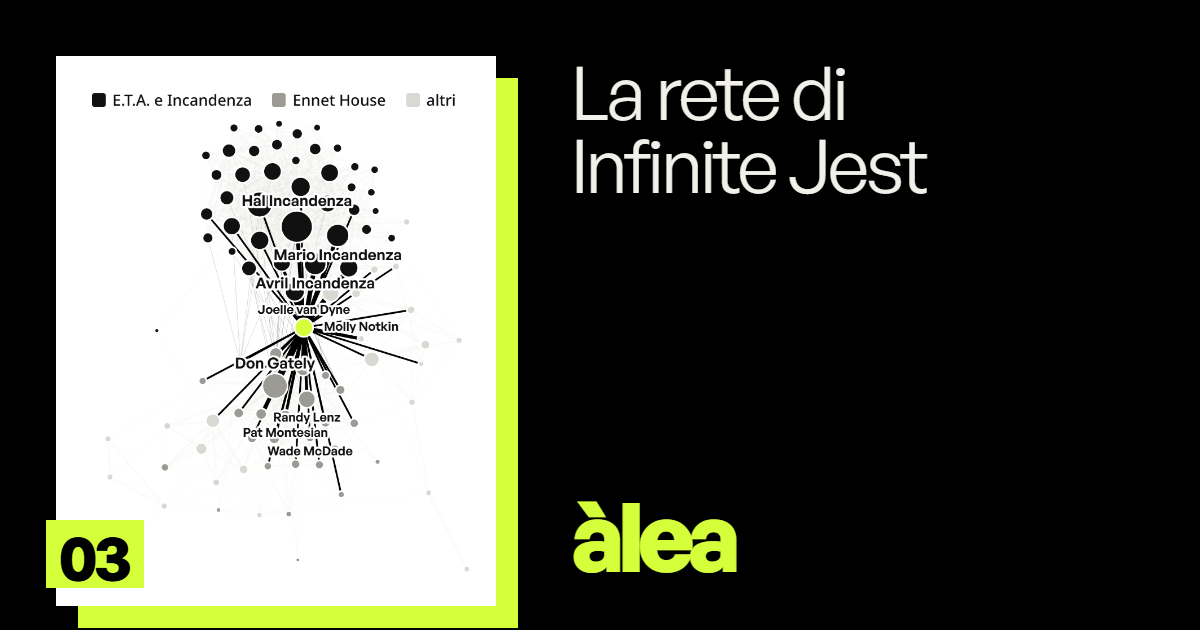
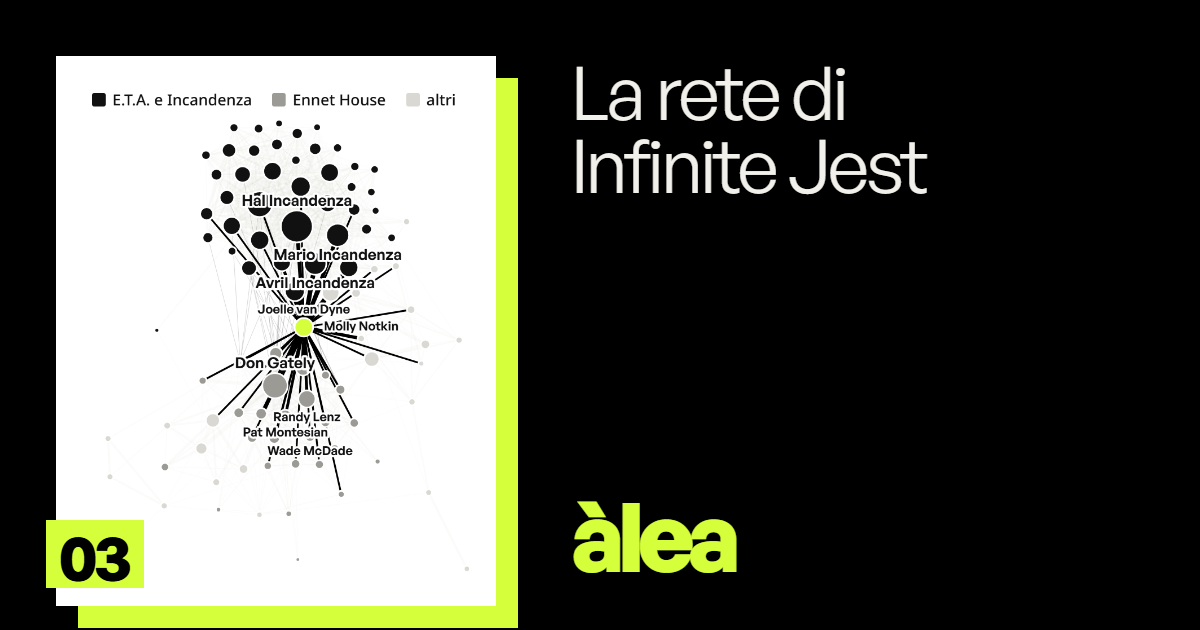
moneta su /simulazione-casualita/, copertine come immagini semplici, anteprime social da un solo modello, deploy che rigenera tutto; nuovi titolo, descrizione, about e sommari

diff --git a/public/simulazione-casualita/index.html b/public/simulazione-casualita/index.html
@@ -219,22 +219,22 @@
          opacity: 0; transition: opacity .1s; }
 </style>
 
-<meta name="description" content="Inventa cento lanci di moneta: un programma che non sa niente di te proverà a prevederli. Poi li confrontiamo con una moneta vera.">
-<link rel="canonical" href="https://alea.news/prova-a-fare-il-caso/">
+<meta name="description" content="Generare numeri casuali non è qualcosa di semplice e spesso un essere umano fallisce nel tentativo di provarci">
+<link rel="canonical" href="https://alea.news/simulazione-casualita/">
 <meta property="og:type" content="article">
 <meta property="og:site_name" content="àlea">
 <meta property="og:title" content="Non siamo bravi a simulare la casualità">
-<meta property="og:description" content="Inventa cento lanci di moneta: un programma che non sa niente di te proverà a prevederli. Poi li confrontiamo con una moneta vera.">
-<meta property="og:url" content="https://alea.news/prova-a-fare-il-caso/">
-<meta property="og:image" content="https://alea.news/og/prova-a-fare-il-caso.png">
+<meta property="og:description" content="Generare numeri casuali non è qualcosa di semplice e spesso un essere umano fallisce nel tentativo di provarci">
+<meta property="og:url" content="https://alea.news/simulazione-casualita/">
+<meta property="og:image" content="https://alea.news/og/simulazione-casualita.png">
 <meta property="og:image:width" content="1200">
 <meta property="og:image:height" content="630">
 <meta property="og:locale" content="it_IT">
 <meta property="article:published_time" content="2026-10-10">
 <meta name="twitter:card" content="summary_large_image">
 <meta name="twitter:title" content="Non siamo bravi a simulare la casualità">
-<meta name="twitter:description" content="Inventa cento lanci di moneta: un programma che non sa niente di te proverà a prevederli. Poi li confrontiamo con una moneta vera.">
-<meta name="twitter:image" content="https://alea.news/og/prova-a-fare-il-caso.png">
+<meta name="twitter:description" content="Generare numeri casuali non è qualcosa di semplice e spesso un essere umano fallisce nel tentativo di provarci">
+<meta name="twitter:image" content="https://alea.news/og/simulazione-casualita.png">
 <link rel="icon" href="/favicon.svg" type="image/svg+xml">
 <link rel="apple-touch-icon" href="/apple-touch-icon.png">
 <title>Non siamo bravi a simulare la casualità · àlea</title>
@@ -1051,7 +1051,7 @@ disegnaInput();   // primo disegno della griglia vuota
 <section class="alea-fondo" data-nosnippet>
   <div class="alea-fondo-in">
     <a class="alea-invito" href="/">Questo è un progetto di <b>àlea</b>, dai un'occhiata anche agli altri →</a>
-    <div class="alea-altri"><a href="/litigi-tra-alleati/"><span class="t">I litigi tra gli alleati di governo</span><span class="s">Governano insieme e votano insieme la fiducia, ma in aula si contestano: 1.047 volte, alla Camera, dal 1948 al 2022.</span></a></div>
+    <div class="alea-altri"><a href="/la-rete-di-infinite-jest/"><span class="t">La rete di Infinite Jest</span><span class="s">Il romanzo di David Foster Wallace, visto attraverso una network analysis, ci mostra due mondi separati, se non per un personaggio</span></a><a href="/litigi-tra-alleati/"><span class="t">I litigi tra gli alleati di governo</span><span class="s">Governano insieme e votano insieme la fiducia, ma in aula si contestano: 1.047 volte alla Camera, dal 1948 al 2022</span></a></div>
     <div class="alea-barra">newsletter ↓</div>
     <div class="alea-nl">
       <div>
@@ -1064,7 +1064,7 @@ disegnaInput();   // primo disegno della griglia vuota
       </form>
     </div>
     <footer class="alea-piede">
-      <div><h4>about</h4><p>àlea è un progetto di data e visual journalism ideato da <a href="https://www.davidruffini.com" target="_blank" rel="noopener">David Ruffini</a> per raccontare storie su probabilità, società, cultura e molto altro.</p></div>
+      <div><h4>about</h4><p>àlea è un progetto di data e visual journalism ideato da <a href="https://www.davidruffini.com" target="_blank" rel="noopener">David Ruffini</a> per parlare di incertezza attraverso i dati e per raccontare storie su statistica, società, cultura e molto altro.</p></div>
       <div class="alea-col"><h4>contatti</h4><a href="mailto:ciao@alea.news">ciao@alea.news</a></div>
       <div class="alea-col"><h4>social</h4><a href="https://www.instagram.com/alea.rivista/" target="_blank" rel="noopener">instagram ↗</a><a href="https://www.linkedin.com/company/%C3%A0lea/" target="_blank" rel="noopener">linkedin ↗</a></div>
     </footer>

diff --git a/public/la-rete-di-infinite-jest/index.html b/public/la-rete-di-infinite-jest/index.html
@@ -141,12 +141,12 @@
   body.ig .barre .riga { height: 38px; font-size: .95rem; }
 </style>
 
-<meta name="description" content="Il monumentale romanzo di David Foster Wallace visto come un sistema complesso">
+<meta name="description" content="Il romanzo di David Foster Wallace, visto attraverso una network analysis, ci mostra due mondi separati, se non per un personaggio">
 <link rel="canonical" href="https://alea.news/la-rete-di-infinite-jest/">
 <meta property="og:type" content="article">
 <meta property="og:site_name" content="àlea">
 <meta property="og:title" content="La rete di Infinite Jest">
-<meta property="og:description" content="Il monumentale romanzo di David Foster Wallace visto come un sistema complesso">
+<meta property="og:description" content="Il romanzo di David Foster Wallace, visto attraverso una network analysis, ci mostra due mondi separati, se non per un personaggio">
 <meta property="og:url" content="https://alea.news/la-rete-di-infinite-jest/">
 <meta property="og:image" content="https://alea.news/og/la-rete-di-infinite-jest.png">
 <meta property="og:image:width" content="1200">
@@ -155,7 +155,7 @@
 <meta property="article:published_time" content="2026-10-22">
 <meta name="twitter:card" content="summary_large_image">
 <meta name="twitter:title" content="La rete di Infinite Jest">
-<meta name="twitter:description" content="Il monumentale romanzo di David Foster Wallace visto come un sistema complesso">
+<meta name="twitter:description" content="Il romanzo di David Foster Wallace, visto attraverso una network analysis, ci mostra due mondi separati, se non per un personaggio">
 <meta name="twitter:image" content="https://alea.news/og/la-rete-di-infinite-jest.png">
 <link rel="icon" href="/favicon.svg" type="image/svg+xml">
 <link rel="apple-touch-icon" href="/apple-touch-icon.png">
@@ -641,7 +641,7 @@ document.getElementById("cerca").addEventListener("submit", (e) => {
 <section class="alea-fondo" data-nosnippet>
   <div class="alea-fondo-in">
     <a class="alea-invito" href="/">Questo è un progetto di <b>àlea</b>, dai un'occhiata anche agli altri →</a>
-    <div class="alea-altri"><a href="/prova-a-fare-il-caso/"><span class="t">Non siamo bravi a simulare la casualità</span><span class="s">Inventa cento lanci di moneta: un programma che non sa niente di te proverà a prevederli. Poi li confrontiamo con una moneta vera.</span></a><a href="/litigi-tra-alleati/"><span class="t">I litigi tra gli alleati di governo</span><span class="s">Governano insieme e votano insieme la fiducia, ma in aula si contestano: 1.047 volte, alla Camera, dal 1948 al 2022.</span></a></div>
+    <div class="alea-altri"><a href="/simulazione-casualita/"><span class="t">Non siamo bravi a simulare la casualità</span><span class="s">Generare numeri casuali non è qualcosa di semplice e spesso un essere umano fallisce nel tentativo di provarci</span></a><a href="/litigi-tra-alleati/"><span class="t">I litigi tra gli alleati di governo</span><span class="s">Governano insieme e votano insieme la fiducia, ma in aula si contestano: 1.047 volte alla Camera, dal 1948 al 2022</span></a></div>
     <div class="alea-barra">newsletter ↓</div>
     <div class="alea-nl">
       <div>
@@ -654,7 +654,7 @@ document.getElementById("cerca").addEventListener("submit", (e) => {
       </form>
     </div>
     <footer class="alea-piede">
-      <div><h4>about</h4><p>àlea è un progetto di data e visual journalism ideato da <a href="https://www.davidruffini.com" target="_blank" rel="noopener">David Ruffini</a> per raccontare storie su probabilità, società, cultura e molto altro.</p></div>
+      <div><h4>about</h4><p>àlea è un progetto di data e visual journalism ideato da <a href="https://www.davidruffini.com" target="_blank" rel="noopener">David Ruffini</a> per parlare di incertezza attraverso i dati e per raccontare storie su statistica, società, cultura e molto altro.</p></div>
       <div class="alea-col"><h4>contatti</h4><a href="mailto:ciao@alea.news">ciao@alea.news</a></div>
       <div class="alea-col"><h4>social</h4><a href="https://www.instagram.com/alea.rivista/" target="_blank" rel="noopener">instagram ↗</a><a href="https://www.linkedin.com/company/%C3%A0lea/" target="_blank" rel="noopener">linkedin ↗</a></div>
     </footer>

diff --git a/public/litigi-tra-alleati/index.html b/public/litigi-tra-alleati/index.html
@@ -192,12 +192,12 @@
   .tip .k { color: var(--ink-2); }
 </style>
 
-<meta name="description" content="Governano insieme e votano insieme la fiducia, ma in aula si contestano: 1.047 volte, alla Camera, dal 1948 al 2022.">
+<meta name="description" content="Governano insieme e votano insieme la fiducia, ma in aula si contestano: 1.047 volte alla Camera, dal 1948 al 2022">
 <link rel="canonical" href="https://alea.news/litigi-tra-alleati/">
 <meta property="og:type" content="article">
 <meta property="og:site_name" content="àlea">
 <meta property="og:title" content="I litigi tra gli alleati di governo">
-<meta property="og:description" content="Governano insieme e votano insieme la fiducia, ma in aula si contestano: 1.047 volte, alla Camera, dal 1948 al 2022.">
+<meta property="og:description" content="Governano insieme e votano insieme la fiducia, ma in aula si contestano: 1.047 volte alla Camera, dal 1948 al 2022">
 <meta property="og:url" content="https://alea.news/litigi-tra-alleati/">
 <meta property="og:image" content="https://alea.news/og/litigi-tra-alleati.png">
 <meta property="og:image:width" content="1200">
@@ -206,7 +206,7 @@
 <meta property="article:published_time" content="2026-10-06">
 <meta name="twitter:card" content="summary_large_image">
 <meta name="twitter:title" content="I litigi tra gli alleati di governo">
-<meta name="twitter:description" content="Governano insieme e votano insieme la fiducia, ma in aula si contestano: 1.047 volte, alla Camera, dal 1948 al 2022.">
+<meta name="twitter:description" content="Governano insieme e votano insieme la fiducia, ma in aula si contestano: 1.047 volte alla Camera, dal 1948 al 2022">
 <meta name="twitter:image" content="https://alea.news/og/litigi-tra-alleati.png">
 <link rel="icon" href="/favicon.svg" type="image/svg+xml">
 <link rel="apple-touch-icon" href="/apple-touch-icon.png">
@@ -862,7 +862,7 @@ else attiva(document.querySelector(".passo, .scena"));
 <section class="alea-fondo" data-nosnippet>
   <div class="alea-fondo-in">
     <a class="alea-invito" href="/">Questo è un progetto di <b>àlea</b>, dai un'occhiata anche agli altri →</a>
-    <div class="alea-altri"><a href="/prova-a-fare-il-caso/"><span class="t">Non siamo bravi a simulare la casualità</span><span class="s">Inventa cento lanci di moneta: un programma che non sa niente di te proverà a prevederli. Poi li confrontiamo con una moneta vera.</span></a></div>
+    <div class="alea-altri"><a href="/la-rete-di-infinite-jest/"><span class="t">La rete di Infinite Jest</span><span class="s">Il romanzo di David Foster Wallace, visto attraverso una network analysis, ci mostra due mondi separati, se non per un personaggio</span></a><a href="/simulazione-casualita/"><span class="t">Non siamo bravi a simulare la casualità</span><span class="s">Generare numeri casuali non è qualcosa di semplice e spesso un essere umano fallisce nel tentativo di provarci</span></a></div>
     <div class="alea-barra">newsletter ↓</div>
     <div class="alea-nl">
       <div>
@@ -875,7 +875,7 @@ else attiva(document.querySelector(".passo, .scena"));
       </form>
     </div>
     <footer class="alea-piede">
-      <div><h4>about</h4><p>àlea è un progetto di data e visual journalism ideato da <a href="https://www.davidruffini.com" target="_blank" rel="noopener">David Ruffini</a> per raccontare storie su probabilità, società, cultura e molto altro.</p></div>
+      <div><h4>about</h4><p>àlea è un progetto di data e visual journalism ideato da <a href="https://www.davidruffini.com" target="_blank" rel="noopener">David Ruffini</a> per parlare di incertezza attraverso i dati e per raccontare storie su statistica, società, cultura e molto altro.</p></div>
       <div class="alea-col"><h4>contatti</h4><a href="mailto:ciao@alea.news">ciao@alea.news</a></div>
       <div class="alea-col"><h4>social</h4><a href="https://www.instagram.com/alea.rivista/" target="_blank" rel="noopener">instagram ↗</a><a href="https://www.linkedin.com/company/%C3%A0lea/" target="_blank" rel="noopener">linkedin ↗</a></div>
     </footer>

diff --git a/src/data/articoli.js b/src/data/articoli.js
@@ -1,6 +1,7 @@
-// Elenco degli articoli, dal più recente. Le pagine degli articoli si importano in public/ con npm run articoli.
-// copertina: nome dell'immagine in public/img/copertine/<nome>.png, un ritaglio 4:5 dell'articolo visto da telefono
-//   (npm run copertine, vedi scripts/copertine.mjs); per le bozze basta { colore, testo }.
+// Elenco degli articoli, dal più recente. Con npm run deploy tutto quello che c'è qui (titolo, sommario, url, copertina)
+// si aggiorna ovunque: home, pagine degli articoli, meta tag e anteprime per i social.
+// copertina: nome del file in public/img/copertine/ (png, jpg o webp), mostrato così com'è in un riquadro 4:5
+//   (se ha altre proporzioni si vede il centro); per le bozze basta { colore, testo }.
 // colore: il blocco di colore pieno dietro la copertina ("ombra piena").
 // bozza: true -> compare solo con npm run dev, mai nel sito pubblicato
 export const ARTICOLI = [
@@ -9,19 +10,19 @@ export const ARTICOLI = [
     data: "2026-10-22",
     tema: "cultura",
     titolo: "La rete di Infinite Jest",
-    sommario: "Il monumentale romanzo di David Foster Wallace visto come un sistema complesso",
+    sommario: "Il romanzo di David Foster Wallace, visto attraverso una network analysis, ci mostra due mondi separati, se non per un personaggio",
     url: "/la-rete-di-infinite-jest/",
-    copertina: "infinite-jest",
+    copertina: "infinite-jest.png",
     colore: "#d4ff3a",
   },
   {
     numero: 2,
     data: "2026-10-10",
-    tema: "statistica",
+    tema: "probabilità",
     titolo: "Non siamo bravi a simulare la casualità",
-    sommario: "Inventa cento lanci di moneta: un programma che non sa niente di te proverà a prevederli. Poi li confrontiamo con una moneta vera.",
-    url: "/prova-a-fare-il-caso/",
-    copertina: "moneta",
+    sommario: "Generare numeri casuali non è qualcosa di semplice e spesso un essere umano fallisce nel tentativo di provarci",
+    url: "/simulazione-casualita/",
+    copertina: "moneta.png",
     colore: "#d4ff3a",
   },
   {
@@ -29,9 +30,9 @@ export const ARTICOLI = [
     data: "2026-10-06",
     tema: "politica",
     titolo: "I litigi tra gli alleati di governo",
-    sommario: "Governano insieme e votano insieme la fiducia, ma in aula si contestano: 1.047 volte, alla Camera, dal 1948 al 2022.",
+    sommario: "Governano insieme e votano insieme la fiducia, ma in aula si contestano: 1.047 volte alla Camera, dal 1948 al 2022",
     url: "/litigi-tra-alleati/",
-    copertina: "litigi",
+    copertina: "litigi2.png",
     colore: "#d4ff3a",
   },
   // segnaposto per vedere la griglia mentre si lavora

diff --git a/scripts/og/articolo.html b/scripts/og/articolo.html
@@ -1,6 +1,6 @@
 <!doctype html>
-<!-- Immagine di anteprima per i social (1200x630): la figurina della home (public/img/copertine/moneta.png con l'ombra piena)
-     a sinistra, il titolo e àlea a destra. Si rigenera con npm run copertine e poi npm run og -->
+<!-- Modello dell'immagine di anteprima di un articolo per i social (1200x630): la figurina della home (copertina con l'ombra piena)
+     a sinistra, il titolo e àlea a destra. Copertina, numero e titolo li mette scripts/og.mjs, da src/data/articoli.js. -->
 <html lang="it">
 <head>
 <meta charset="utf-8">
@@ -8,15 +8,15 @@
 <style>
   html, body { margin: 0; width: 1200px; height: 630px; overflow: hidden; background: #000; font-family: "General Sans", sans-serif; color: #f2f0ea; }
   .cop { position: absolute; left: 56px; top: 56px; width: 440px; height: 550px; box-sizing: border-box;
-         box-shadow: 22px 22px 0 #d4ff3a; background: #fff url(../../public/img/copertine/moneta.png) top / cover; }
+         box-shadow: 22px 22px 0 {{colore}}; background: #fff url({{copertina}}) center / cover; }
   .num { position: absolute; left: 46px; top: 520px; background: #d4ff3a; color: #000; font-weight: 700; font-size: 64px; letter-spacing: -0.06em; line-height: 1; padding: 4px 16px 0 12px; }
   .destra { position: absolute; left: 571px; right: 56px; top: 56px; bottom: 56px; display: flex; flex-direction: column; justify-content: space-between; }
-  .tit { font-size: 74px; line-height: .98; letter-spacing: -0.04em; }
+  .tit { font-size: 74px; line-height: .98; letter-spacing: -0.04em; text-wrap: balance; }
   .logo { font-weight: 700; font-size: 96px; letter-spacing: -0.075em; color: #d4ff3a; line-height: .8; }
 </style>
 </head>
 <body>
-  <div class="cop"></div><div class="num">02</div>
-  <div class="destra"><div class="tit">Non siamo bravi a simulare la casualità</div><div class="logo">àlea</div></div>
+  <div class="cop"></div><div class="num">{{numero}}</div>
+  <div class="destra"><div class="tit">{{titolo}}</div><div class="logo">àlea</div></div>
 </body>
 </html>

diff --git a/src/config.js b/src/config.js
@@ -5,11 +5,11 @@ export const SITO = {
   nomeRicerca: "Àlea",
   indirizzo: "https://alea.news",
   // titolo e descrizione della home nei risultati di ricerca e nelle anteprime
-  titolo: "Àlea - Raccontare con i dati",
-  descrizione: "Àlea raccoglie progetti di data e visual journalism su probabilità, società, cultura e molto altro.",
+  titolo: "Àlea - Raccontare l'incertezza con i dati",
+  descrizione: "Àlea è un progetto di data e visual journalism che racconta l'incertezza attraverso i dati: statistica, società, cultura e molto altro.",
   autore: "David Ruffini",
   // testo dell'about (home e fondo degli articoli): {autore} diventa il nome con il link a sitoAutore
-  about: "àlea è un progetto di data e visual journalism ideato da {autore} per raccontare storie su probabilità, società, cultura e molto altro.",
+  about: "àlea è un progetto di data e visual journalism ideato da {autore} per parlare di incertezza attraverso i dati e per raccontare storie su statistica, società, cultura e molto altro.",
   sitoAutore: "https://www.davidruffini.com",
   email: "ciao@alea.news",
   // indirizzo della newsletter su Substack (es. "https://nome.substack.com"); vuoto finché non è deciso

diff --git a/strumenti/editor-articoli.html b/strumenti/editor-articoli.html
@@ -695,7 +695,7 @@ $("b-pubblica").onclick = () => {
     <li><b>Esporta HTML</b> e salva il file come <code>Desktop/alea/articoli/${ind}.html</code> (anche «Salva progetto» nella stessa cartella, per poterlo modificare dopo).</li>
     <li>In <code>Desktop/alea/src/data/articoli.js</code> aggiungi in cima all'elenco (controlla numero e tema):<pre>${esc(riga)}</pre><button id="copia">copia</button></li>
     <li>Nel terminale, dentro <code>Desktop/alea</code>: <pre>npm run articoli\nnpm run dev</pre> e controlla su <code>localhost:4321/${ind}/</code>.</li>
-    <li>La copertina per la home: una schermata da telefono (vedi <code>scripts/copertine.mjs</code>), oppure chiedi a Claude «fai la copertina di ${ind}».</li>
+    <li>La copertina per la home: un'immagine in <code>public/img/copertine/</code>, con il nome del file nel campo <code>copertina</code> di <code>src/data/articoli.js</code>.</li>
     <li>Pubblica con <code>npm run deploy</code>.</li></ol>
     <button onclick="this.closest('dialog').close()">Chiudi</button>`;
   d.querySelector("#copia").onclick = () => navigator.clipboard.writeText(riga);

diff --git a/strumenti/instagram/caroselli/v2/carosello.html b/strumenti/instagram/caroselli/v2/carosello.html
@@ -82,7 +82,7 @@ const ARTICOLI = {
     { foto: ["mario_draghi.jpg", "matteo_salvini.jpg"], rit: ["l_draghi_testo"], cred: "Foto: Parlamento europeo, CC BY 2.0; Unione europea" },
     { foto: [], rit: ["l_draghi_emi", "l_draghi_tl"], url: true },
   ] },
-  moneta: { n: 2, url: "alea.news/prova-a-fare-il-caso", slide: [
+  moneta: { n: 2, url: "alea.news/simulazione-casualita", slide: [
     { gancio: "Non siamo bravi a simulare il caso", foto: ["eniac-operatrici.jpg"], rit: [], cred: "Foto: ENIAC, esercito USA, pubblico dominio" },
     { foto: [], rit: ["m_gioco"] },
     { foto: ["ibm-nasa.jpg"], rit: ["m_rand"], cred: "Foto: IBM 704 alla NASA, pubblico dominio" },

diff --git a/strumenti/instagram/caroselli/v3/carosello.html b/strumenti/instagram/caroselli/v3/carosello.html
@@ -67,7 +67,7 @@ const ARTICOLI = {
     { foto: ["mario_draghi.jpg", "matteo_salvini.jpg"], rit: ["l_draghi_testo"], cred: "Foto: Parlamento europeo, CC BY 2.0; Unione europea" },
     { rit: ["l_draghi_emi", "l_draghi_tl"], url: true },
   ] },
-  moneta: { n: 2, url: "alea.news/prova-a-fare-il-caso", slide: [
+  moneta: { n: 2, url: "alea.news/simulazione-casualita", slide: [
     { gancio: "Non siamo bravi a simulare il caso", foto: ["eniac-operatrici.jpg"], cred: "Foto: ENIAC, esercito USA, pubblico dominio" },
     { rit: ["m_gioco"] },
     { foto: ["ibm-nasa.jpg"], rit: ["m_rand"], cred: "Foto: IBM 704 alla NASA, pubblico dominio" },

diff --git a/strumenti/instagram/caroselli/v1/carosello.html b/strumenti/instagram/caroselli/v1/carosello.html
@@ -94,7 +94,7 @@ const ARTICOLI = {
     ],
   },
   moneta: {
-    n: 2, url: "alea.news/prova-a-fare-il-caso",
+    n: 2, url: "alea.news/simulazione-casualita",
     slide: [
       { tipo: "copertina", testo: "Non siamo bravi a simulare il caso",
         foto: ["eniac-operatrici.jpg"], rit: "m_rand", cred: "Foto: ENIAC, esercito USA, pubblico dominio" },

diff --git a/strumenti/GUIDA.md b/strumenti/GUIDA.md
@@ -87,7 +87,7 @@ Nell'anteprima la schermata iniziale si vede solo se spunti **mostra la schermat
    npm run articoli    # aggiunge l'articolo al sito con testata, firma, fondo e meta tag
    npm run dev         # controlla su localhost:4321/<indirizzo>/
    ```
-5. Fai la copertina per la home (vedi `scripts/copertine.mjs`), oppure chiedi a Claude: «fai la copertina di <indirizzo>».
+5. Metti la copertina per la home in `public/img/copertine/` e scrivi il nome del file nel campo `copertina` di `src/data/articoli.js`.
 6. Quando è tutto a posto: `npm run deploy`. Poi `git add articoli src && git commit -m "…" && git push`, così non si perde niente.
 
 ## 6. Le cose complesse (con Claude)
